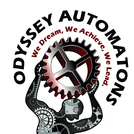
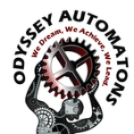
v7.33
added new banner and modified connor bio image, index.html and
memberbios.html

diff --git a/2013-memberbios.html b/2013-memberbios.html
@@ -14,7 +14,7 @@
 		<div id="biopage">
 			<div id="title_bar">
 				<div id="profile_image">
-					<a href="index.html"><img src="Images/oi_automation.png" /></a>
+					<a href="index.html"><img src="Images/oi-automatons_banner5.jpg" /></a>
 				</div>
 			</div>
 			<nav>
@@ -64,7 +64,7 @@
 			<div id="content">
 				<h1 class="biotext">2013 Member Bios</h1>
 				<div class="biobox">
-					<img class="biopic" src="Images/Bios/Connor.jpg" />
+                    <img class="biopic" src="Images/Bios/Connor_small_web2.jpg" />
 					<h2 class="biotext">Connor Belanger</h2>
 					<p class="biotext">Lead Programmer, Sophmore, Age 15</p>
 					<p class="biotext">Connor is the team's head programmer and the "Go to fix it program" guy and is fluent in LabView and RobotC. Connor and Devan are the team's two programmers and have written all of the team's code. Connor has attended the Odyssey Institute for three years and has participated in FLL for the first year and FTC the last two years. Even though Connor's number one choice on the team isn't to drive, he sure makes a great effort to try his hardest when he has to. When Connor is older he hopes to be a computer scientist for Google.

diff --git a/index.html b/index.html
@@ -15,7 +15,7 @@
 		<div id="page">
 			<div id="title_bar">
 				<div id="profile_image">
-					<a href="index.html"><img src="Images/oi_automation.png" /></a>
+					<a href="index.html"><img src="Images/oi-automatons_banner5.jpg" /></a>
 				</div>
 			</div>
 			<nav>

diff --git a/css/stylesheet.css b/css/stylesheet.css
@@ -80,9 +80,9 @@ body.canvas {
 }
 #profile_image {
 	display: inline-block;
-	margin: 8px;
-	height: 134px;
-	height: 134px;
+	margin: 0px;
+	height: 150px;
+	height: 1024px;
 	overflow: hidden;
 }
 img.biopic {

diff --git a/css/navbar.css b/css/navbar.css
@@ -4,7 +4,7 @@
 	list-style:none;
 }
 #menu {
-	width:1272px;
+	width:1276px;
 	height:28px;
 	margin-left:4px;
 	margin-right:4px;
